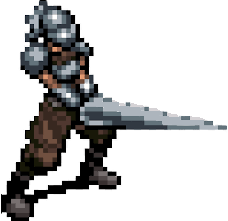
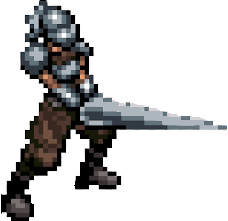
nice highlight

Changed region(s): [[0.1228, 0.8145, 0.3377, 0.9231]]

diff --git a/index.ts b/index.ts
@@ -43,11 +43,14 @@ const drawACloud = drawImg(cloudImg);
 const drawASoldier = (x:number, y:number, w:number, h:number, highlighted?:boolean) => {
     const img = soldierImg;
     if (highlighted) {
-        // draw the original
-        // ctx.drawImage(
-        //     img, 0, 0, img.width, img.height,    // source rectangle
-        //     x, y, w, h       // destination rectangle
-        // ); 
+        // draw the original, fully black
+        ctx.filter = "brightness(0%)";
+        const borderMultiplier = 1.05;
+        const m = borderMultiplier;
+        ctx.drawImage(
+            img, 0, 0, img.width, img.height,    // source rectangle
+            x-w*(m-1)/2, y, w*m, h       // destination rectangle
+        ); 
         // now draw the highlight
         console.log(ctx.filter);
         ctx.filter = "brightness(200%)";

diff --git a/index.js b/index.js
@@ -34,11 +34,13 @@ const drawACloud = drawImg(cloudImg);
 const drawASoldier = (x, y, w, h, highlighted) => {
     const img = soldierImg;
     if (highlighted) {
-        // draw the original
-        // ctx.drawImage(
-        //     img, 0, 0, img.width, img.height,    // source rectangle
-        //     x, y, w, h       // destination rectangle
-        // ); 
+        // draw the original, fully black
+        ctx.filter = "brightness(0%)";
+        const borderMultiplier = 1.05;
+        const m = borderMultiplier;
+        ctx.drawImage(img, 0, 0, img.width, img.height, // source rectangle
+        x - w * (m - 1) / 2, y, w * m, h // destination rectangle
+        );
         // now draw the highlight
         console.log(ctx.filter);
         ctx.filter = "brightness(200%)";
